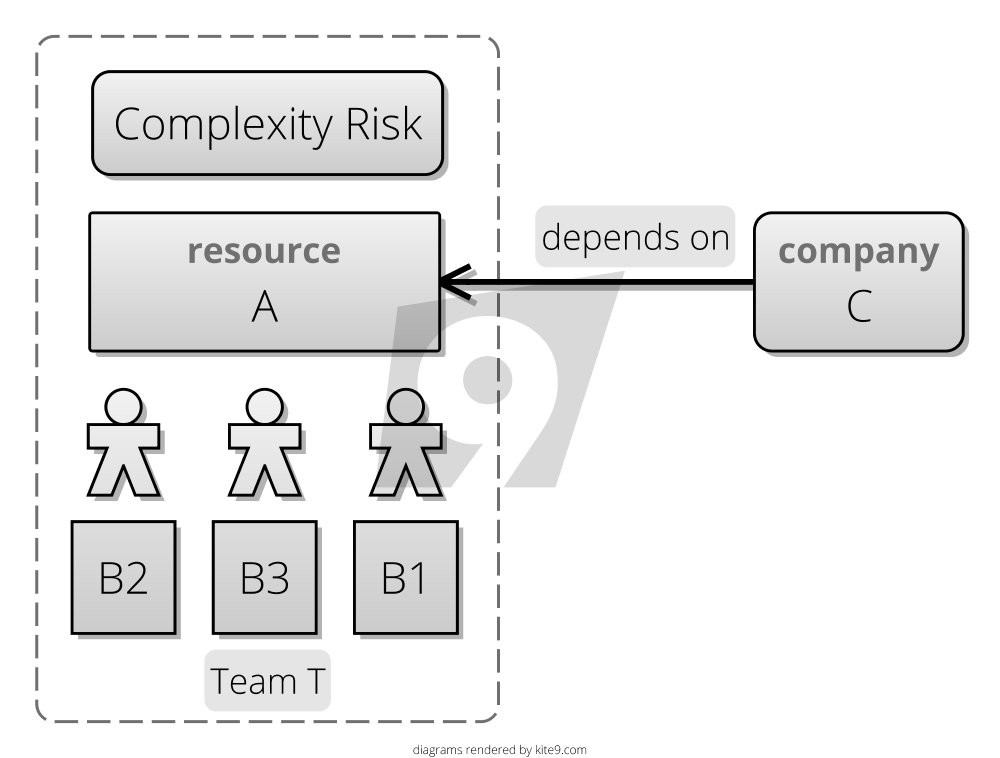
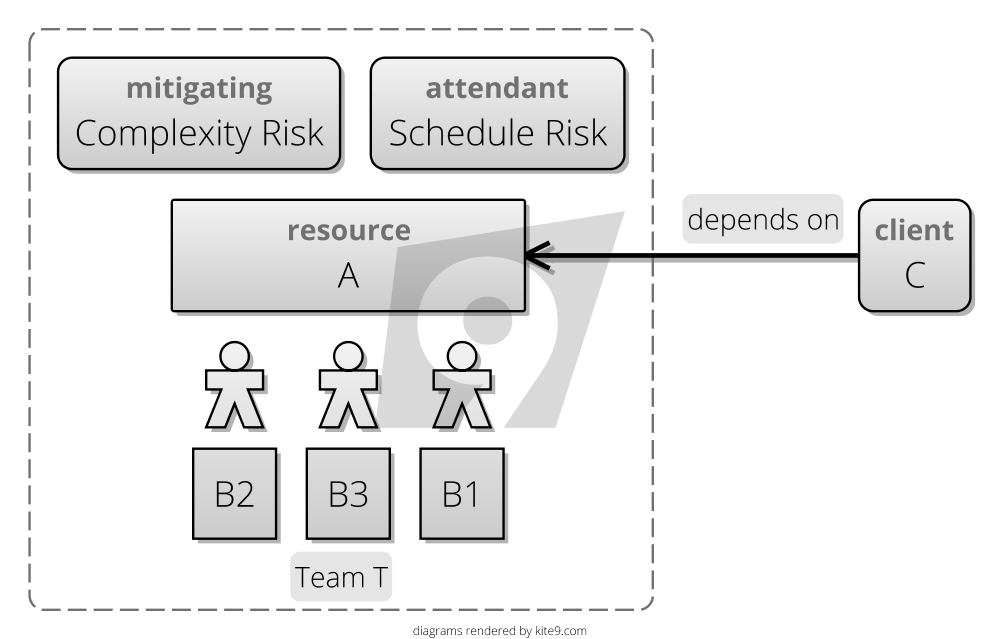
Process Risk
Former-commit-id: 95fe9c4f45a96b0d775ff8df230dfaf20d93ef48

diff --git a/menagerie/Process-Risk.md b/menagerie/Process-Risk.md
@@ -33,7 +33,7 @@ Business Processes often arise in response to an unmet need within an organisati
 
 ![Person B doing A for company C](images/kite9/process-risk-1.png)
 
-1.  Person `B` in a company starts producing `A`,  This is really useful! It makes the the lives of clients in `C` much easier as they have an easier path to `A` than before.  `B` gets busy keeping `C` happy.  No one cares.  But then, `B` goes on holiday.  `A` doesn't get done, and people now care:  the [Dependency Risk](Dependency-Risk) is suddenly apparent. 
+1.  Person `B` in a company starts producing `A` _as a service to others_.  This is really useful! It makes the the lives of clients in `C` much easier as they have an easier path to `A` than before.  `B` gets busy keeping `C` happy.  No one cares.  But then, `B` goes on holiday.  `A` doesn't get done, and people now care:  the [Dependency Risk](Dependency-Risk) is suddenly apparent. 
 
 ![Team T is created to do A for Company C](images/kite9/process-risk-2.png)
 
